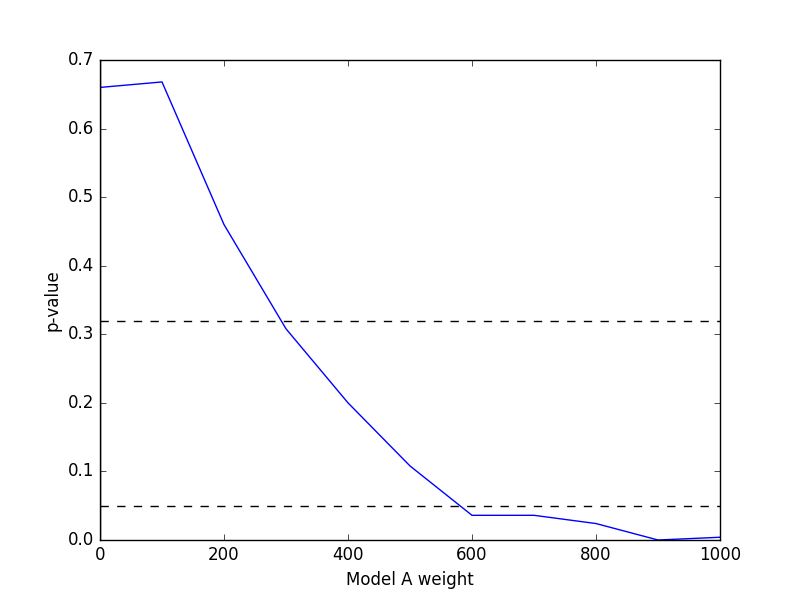
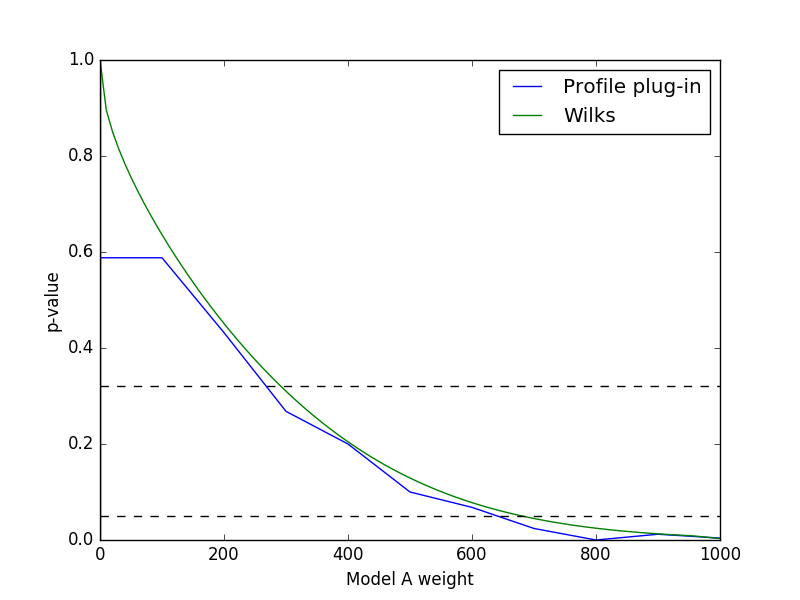
Add method for Wilks' theorem p-value.
Fixes #8.

diff --git a/remu/likelihood.py b/remu/likelihood.py
@@ -1375,6 +1375,117 @@ class LikelihoodMachine(object):
         # Return the quotient
         return n / N
 
+    def wilks_max_likelihood_ratio_p_value(self, H0, H1, par0=None, par1=None, systematics='marginal', nested=True, **kwargs):
+        """Calculate the maximum-likelihood-ratio p-value of two composite hypotheses.
+
+        The maximum-likelihood-ratio p-value is the probability of the data
+        yielding a lower ratio of maximum likelihoods (over the possible
+        parameter spaces of the composite hypotheses) than the actual data,
+        given that the best-fit parameter set of hypothesis `H0` is true.
+        This method assumes that Wilk's theorem holds.
+
+        Parameters
+        ----------
+
+        H0 : CompositeHypothesis
+            The tested composite hypothesis. Usually a subset of `H1`.
+
+        H1 : CompositeHypothesis
+            The alternative composite hypothesis.
+
+        par0 : array like, optional
+            The assumed true parameters of the tested hypothesis.If no
+            parameters are given, they will be determined with the maximum
+            likelihood method.
+
+        par1 : array like, optional
+            The maximum likelihood parameters of the alternative hypothesis.
+            If no parameters are given, they will be determined with the
+            maximum likelihood method.
+
+        systematics : {'profile', 'marginal'}, optional
+            How to deal with detector systematics, i.e. multiple response
+            matrices:
+
+            'profile', 'maximum'
+                Choose the response matrix that yields the highest likelihood.
+            'marginal', 'average'
+                Take the arithmetic average probability yielded by the matrices.
+
+        nested : bool or 'ignore', optional
+            Is H0 a nested theory, i.e. does it cover a subset of H1? In this
+            case, the maximum likelihoods must always follow ``L0 <= L1``. If
+            `True` or `'ignore'`, the calculation of likelihood ratios is
+            re-tried a couple of times if no valid likelihood ratio is found.
+            If `True` and no valid value was found after 10 tries, an errors is
+            raised. If `False`, those cases are just accepted.
+
+        **kwargs : optional
+            Additional keyword arguments will be passed to :meth:`max_log_likelihood`.
+
+        Returns
+        -------
+
+        p : float
+            The maximum-likelihood-ratio p-value.
+
+        Notes
+        -----
+
+        This method assumes that Wilks' theorem holds, i.e. that the logarithm
+        of the maximum likelihood ratio of the two hypothesis is distributed
+        like a chi-squared distribution::
+
+            ndof = number_of_parameters_of_H1 - number_of_parameters_of_H0
+            p_value = scipy.stats.chi2.sf(-2*log_likelihood_ratio, df=ndof)
+
+        See also
+        --------
+
+        max_likelihood_ratio_p_value
+        likelihood_p_value
+        max_likelihood_p_value
+        mcmc
+
+        """
+
+        # Get truth vector from assumed true hypothesis
+        if par0 is None:
+            par0 = self.max_log_likelihood(H0, systematics=systematics, **kwargs).x
+        if par1 is None:
+            par1 = self.max_log_likelihood(H1, systematics=systematics, **kwargs).x
+
+        truth_vector = self._reduce_truth_vector(H0.translate(par0))
+        alternative_truth = self._reduce_truth_vector(H1.translate(par1))
+
+        # Get likelihood of actual data
+        p0 = self._reduced_log_likelihood(truth_vector, systematics=systematics)
+        p1 = self._reduced_log_likelihood(alternative_truth, systematics=systematics)
+        r0 = p0-p1 # difference because log
+
+        # If we assume a nested hypothesis, we should try to fix impossible likelihood ratios
+        nested_tolerance = 1e-2
+        if nested is True or nested == 'ignore':
+            ttl = 10
+            while r0 > nested_tolerance and ttl > 0:
+                try:
+                    p0 = np.maximum(p0, self.max_log_likelihood(H0, systematics=systematics, **kwargs).L)
+                    p1 = np.maximum(p1, self.max_log_likelihood(H1, systematics=systematics, **kwargs).L)
+                except KeyboardInterrupt:
+                    raise Exception("Terminated.")
+                r0 = p0 - p1
+                ttl -= 1
+        if r0 > nested_tolerance and (nested is True):
+            raise RuntimeError("Could not find a valid likelihood ratio! Is H0 a subset of H1?")
+        if r0 > nested_tolerance and (nested == 'ignore'):
+            warn("Could not find a valid likelihood ratio! Is H0 a subset of H1?", stacklevel=2)
+        if r0 > 0 and (nested is True):
+            r0 = 0.
+
+        # Likelihood ratio should be distributed like a chi2 distribution
+        ndof = len(par1) - len(par0)
+        return stats.chi2.sf(-2.*r0, df=ndof)
+
     def max_likelihood_ratio_p_value(self, H0, H1, par0=None, par1=None, N=250, generator_matrix_index=None, systematics='marginal', nproc=0, nested=True, **kwargs):
         """Calculate the maximum-likelihood-ratio p-value of two composite hypotheses.
 
@@ -1470,6 +1581,7 @@ class LikelihoodMachine(object):
         See also
         --------
 
+        wilks_max_likelihood_ratio_p_value
         likelihood_p_value
         max_likelihood_p_value
         mcmc

diff --git a/docs/examples/03/fit_models.py b/docs/examples/03/fit_models.py
@@ -116,13 +116,27 @@ for v in values:
     p_values_A_syst.append(A_syst)
     p_values_B_syst.append(B_syst)
 
+p_values_A_wilks = []
+p_values_B_wilks = []
+fine_values = np.linspace(600, 1600, 100)
+for v in fine_values:
+    fixed_model_A = modelA_shape.fix_parameters((v,))
+    fixed_model_B = modelB_shape.fix_parameters((v,))
+    A = lm_syst.wilks_max_likelihood_ratio_p_value(fixed_model_A, modelA_shape)
+    B = lm_syst.wilks_max_likelihood_ratio_p_value(fixed_model_B, modelB_shape)
+    print_(v, A, B)
+    p_values_A_wilks.append(A)
+    p_values_B_wilks.append(B)
+
 fig, ax = plt.subplots()
 ax.set_xlabel("Model weight")
 ax.set_ylabel("p-value")
 ax.plot(values, p_values_A, label="Model A", color='b', linestyle='dotted')
 ax.plot(values, p_values_A_syst, label="Model A syst", color='b', linestyle='solid')
+ax.plot(fine_values, p_values_A_wilks, label="Model A Wilks", color='b', linestyle='dashed')
 ax.plot(values, p_values_B, label="Model B", color='r', linestyle='dotted')
 ax.plot(values, p_values_B_syst, label="Model B syst", color='r', linestyle='solid')
+ax.plot(fine_values, p_values_B_wilks, label="Model B Wilks", color='r', linestyle='dashed')
 ax.axvline(retA.x[0], color='b', linestyle='dotted')
 ax.axvline(retA_syst.x[0], color='b', linestyle='solid')
 ax.axvline(retB.x[0], color='r', linestyle='dotted')

diff --git a/docs/examples/02/fit_models.py b/docs/examples/02/fit_models.py
@@ -67,11 +67,21 @@ for A in A_values:
     print_(A, p)
     p_values.append(p)
 
+wilks_p_values = []
+fine_A_values = np.linspace(0, 1000, 100)
+for A in fine_A_values:
+    fixed_model = mix_model.fix_parameters((A, None))
+    p = lm.wilks_max_likelihood_ratio_p_value(fixed_model, mix_model)
+    print_(A, p)
+    wilks_p_values.append(p)
+
 fig, ax = plt.subplots()
 ax.set_xlabel("Model A weight")
 ax.set_ylabel("p-value")
-ax.plot(A_values, p_values)
+ax.plot(A_values, p_values, label="Profile plug-in")
+ax.plot(fine_A_values, wilks_p_values, label="Wilks")
 ax.axvline(ret.x[0], color='k', linestyle='solid')
 ax.axhline(0.32, color='k', linestyle='dashed')
 ax.axhline(0.05, color='k', linestyle='dashed')
+ax.legend(loc='best')
 fig.savefig("p-values.png")

diff --git a/docs/examples/03/README.rst b/docs/examples/03/README.rst
@@ -305,7 +305,8 @@ actual maximisation is taking place. Note that the p-values for model A are
 generally smaller than those for model B. This is consistent with previous
 results showing that the data is better described by model B.
 
-Finally, let us construct confidence intervals of the template weights, *assuming that the corresponding model is correct*::
+Finally, let us construct confidence intervals of the template weights,
+*assuming that the corresponding model is correct*::
 
     p_values_A = []
     p_values_B = []
@@ -329,15 +330,31 @@ Finally, let us construct confidence intervals of the template weights, *assumin
         p_values_A_syst.append(A_syst)
         p_values_B_syst.append(B_syst)
 
+    p_values_A_wilks = []
+    p_values_B_wilks = []
+    fine_values = np.linspace(600, 1600, 100)
+    for v in fine_values:
+        fixed_model_A = modelA_shape.fix_parameters((v,))
+        fixed_model_B = modelB_shape.fix_parameters((v,))
+        A = lm_syst.wilks_max_likelihood_ratio_p_value(fixed_model_A, modelA_shape)
+        B = lm_syst.wilks_max_likelihood_ratio_p_value(fixed_model_B, modelB_shape)
+        print_(v, A, B)
+        p_values_A_wilks.append(A)
+        p_values_B_wilks.append(B)
+
     fig, ax = plt.subplots()
     ax.set_xlabel("Model weight")
     ax.set_ylabel("p-value")
     ax.plot(values, p_values_A, label="Model A", color='b', linestyle='dotted')
     ax.plot(values, p_values_A_syst, label="Model A syst", color='b',
         linestyle='solid')
+    ax.plot(fine_values, p_values_A_wilks, label="Model A Wilks", color='b',
+        linestyle='dashed')
     ax.plot(values, p_values_B, label="Model B", color='r', linestyle='dotted')
     ax.plot(values, p_values_B_syst, label="Model B syst", color='r',
         linestyle='solid')
+    ax.plot(fine_values, p_values_B_wilks, label="Model B Wilks", color='r',
+        linestyle='dashed')
     ax.axvline(retA.x[0], color='b', linestyle='dotted')
     ax.axvline(retA_syst.x[0], color='b', linestyle='solid')
     ax.axvline(retB.x[0], color='r', linestyle='dotted')
@@ -359,3 +376,8 @@ getting a worse best-fit likelihood ratio, assuming the tested model-parameter
 is true?". Since the likelihood ratio is 1.0 at the best fit point and the
 likelihood ratio of nested hypotheses is less than or equal to 1.0 by
 construction, the p-value is 100% there.
+
+The method :meth:`.wilks_max_likelihood_ratio_p_value` calculates the same
+p-value as :meth:`.max_likelihood_ratio_p_value`, but does so assuming Wilks'
+theorem holds. This does not require the generation of random data and
+subsequent likelihood maximisations, so it is much faster.

diff --git a/docs/examples/02/README.rst b/docs/examples/02/README.rst
@@ -171,13 +171,23 @@ true yields p-values that can be used to construct the confidence interval::
         p = lm.max_likelihood_ratio_p_value(fixed_model, mix_model, nproc=4)
         p_values.append(p)
 
+    wilks_p_values = []
+    fine_A_values = np.linspace(0, 1000, 100)
+    for A in fine_A_values:
+        fixed_model = mix_model.fix_parameters((A, None))
+        p = lm.wilks_max_likelihood_ratio_p_value(fixed_model, mix_model)
+        print_(A, p)
+        wilks_p_values.append(p)
+
     fig, ax = plt.subplots()
     ax.set_xlabel("Model A weight")
     ax.set_ylabel("p-value")
-    ax.plot(A_values, p_values)
+    ax.plot(A_values, p_values, label="Profile plug-in")
+    ax.plot(fine_A_values, wilks_p_values, label="Wilks")
     ax.axvline(ret.x[0], color='k', linestyle='solid')
     ax.axhline(0.32, color='k', linestyle='dashed')
     ax.axhline(0.05, color='k', linestyle='dashed')
+    ax.legend(loc='best')
     fig.savefig("p-values.png")
 
 .. image:: p-values.png
